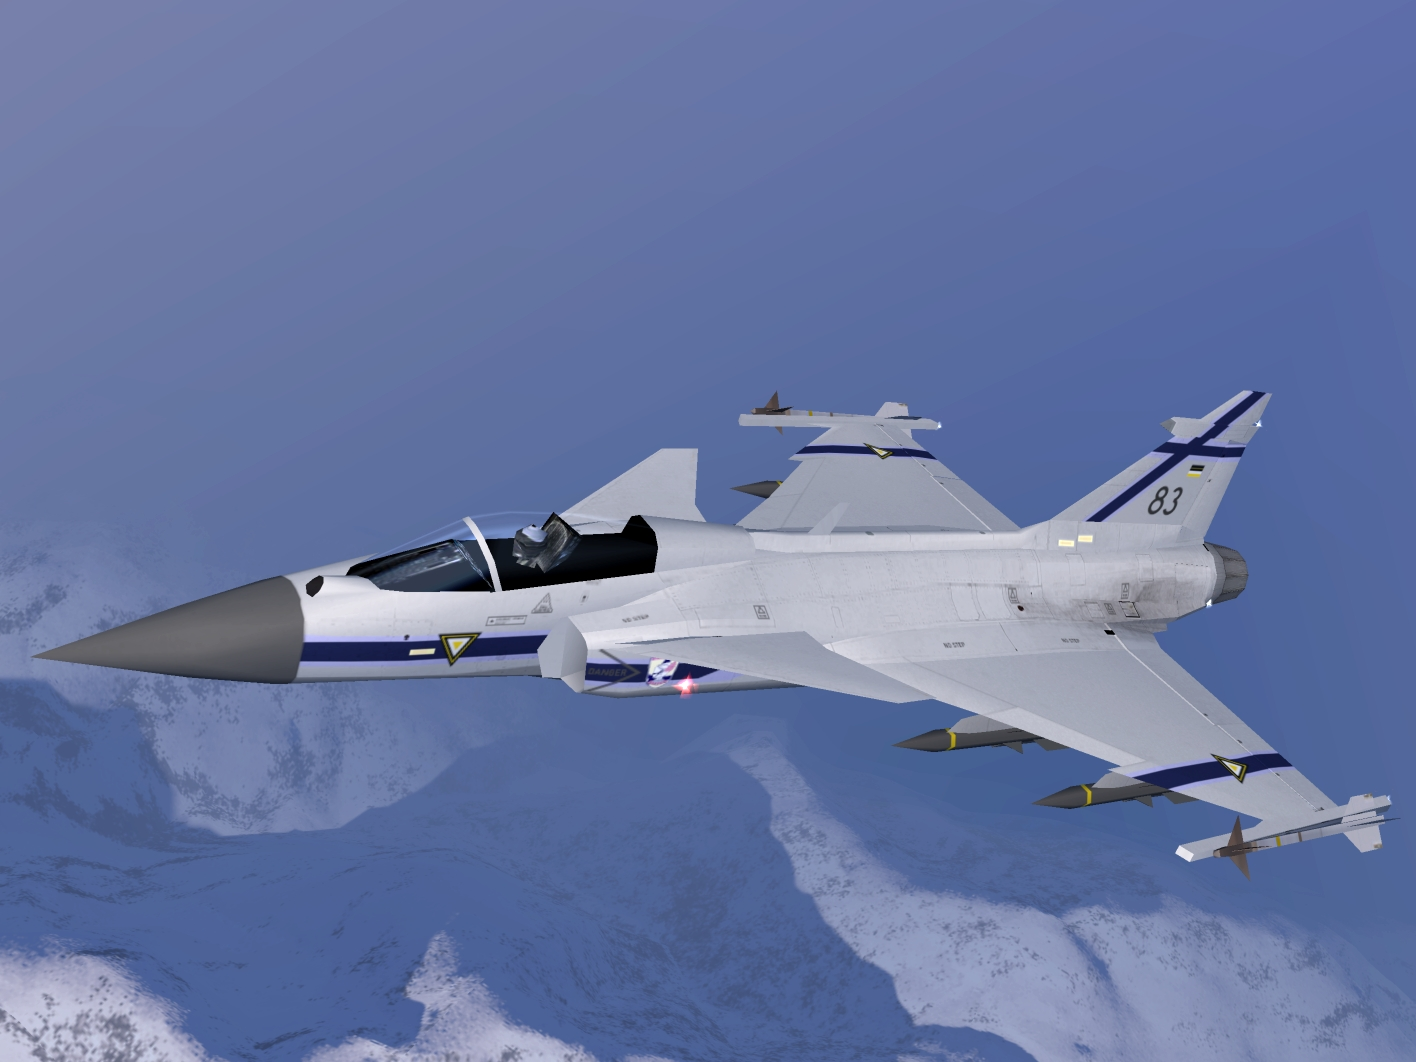
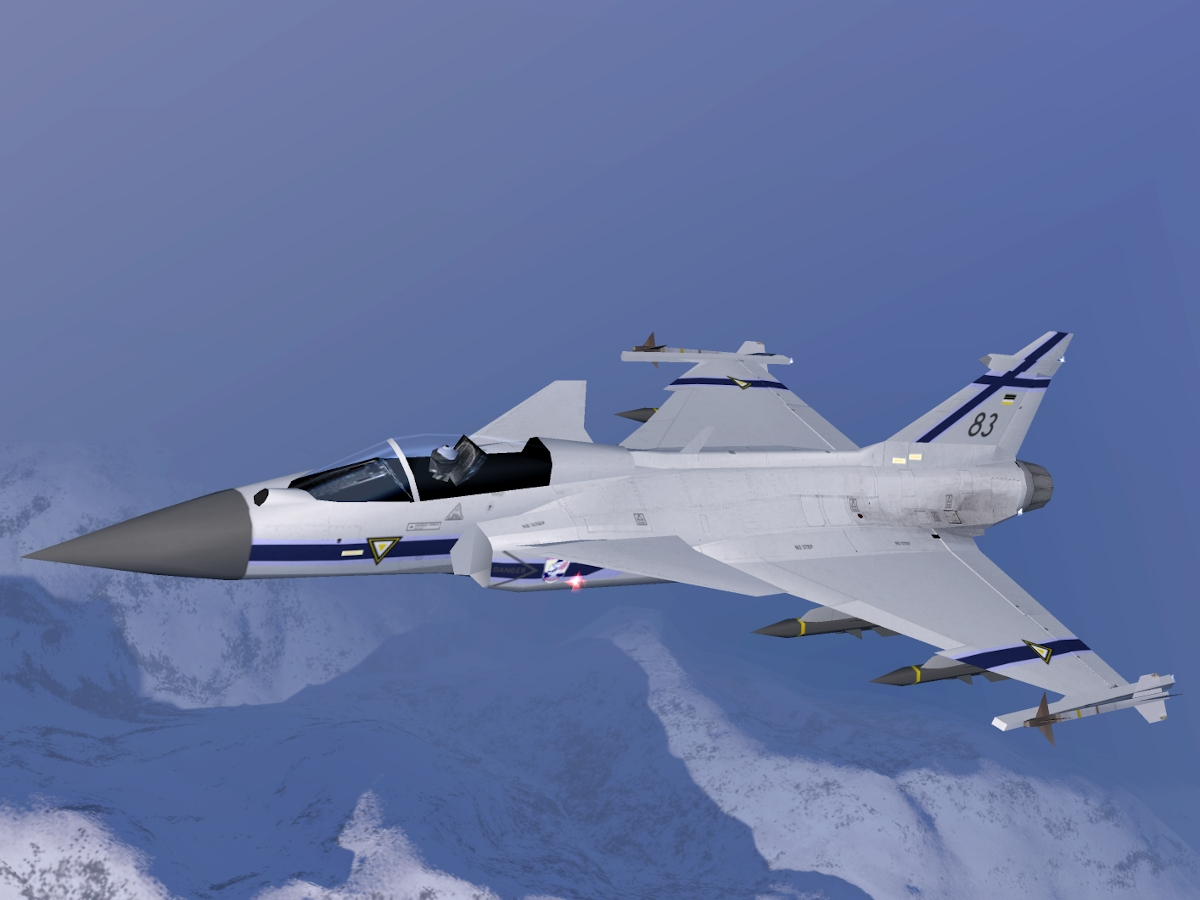
add m90 gripens

diff --git a/extras.html b/extras.html
@@ -460,6 +460,28 @@
 
         <div class="col-lg-15 col-md-15 portfolio-item">
           <div class="card h-100 bg-dark">
+            <a href="extras/x/cards/jas39c-m90-tan.jpg"><img class="card-img-top" src="extras/x/cards/jas39c-m90-tan.jpg" alt=""></a>
+            <div class="card-body text-center text-white">
+              <p class="card-title"><strong>Gripen M90 Tan</strong><br></p>
+			  <p class="card-text">
+			  <a href="extras/x/jas39c-m90-tan.png" class="tn btn-info btn-sm">Download</a></p>  
+            </div>
+          </div>
+        </div>
+		
+        <div class="col-lg-15 col-md-15 portfolio-item">
+          <div class="card h-100 bg-dark">
+            <a href="extras/x/cards/jas39c-m90-blue.jpg"><img class="card-img-top" src="extras/x/cards/jas39c-m90-blue.jpg" alt=""></a>
+            <div class="card-body text-center text-white">
+              <p class="card-title"><strong>Gripen M90 Tan</strong><br></p>
+			  <p class="card-text">
+			  <a href="extras/x/jas39c-m90-blue.png" class="tn btn-info btn-sm">Download</a></p>  
+            </div>
+          </div>
+        </div>
+
+        <div class="col-lg-15 col-md-15 portfolio-item">
+          <div class="card h-100 bg-dark">
             <a href="extras/x/cards/mig21-huckebein-acz.jpg"><img class="card-img-top" src="extras/x/cards/mig21-huckebein-acz.jpg" alt=""></a>
             <div class="card-body text-center text-white">
               <p class="card-title"><strong>MiG-21 Huckebein</strong><br></p>
